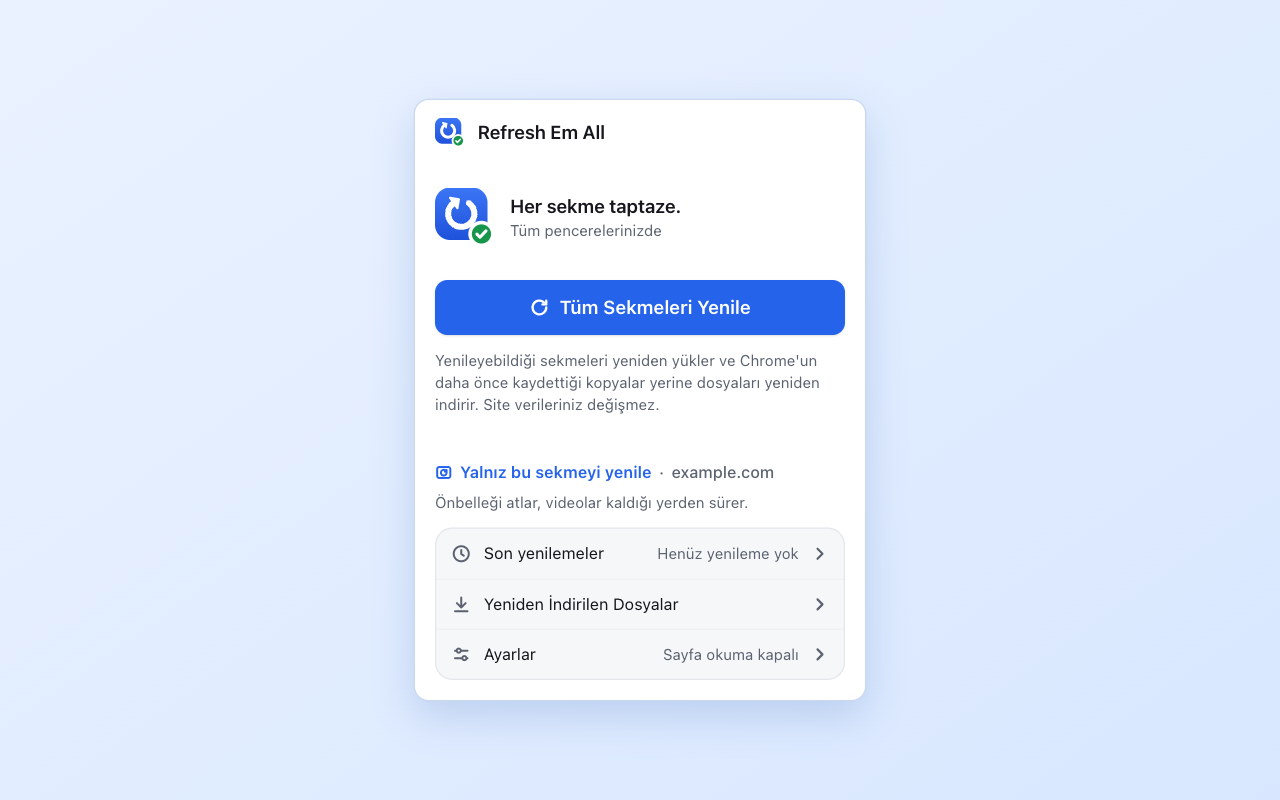
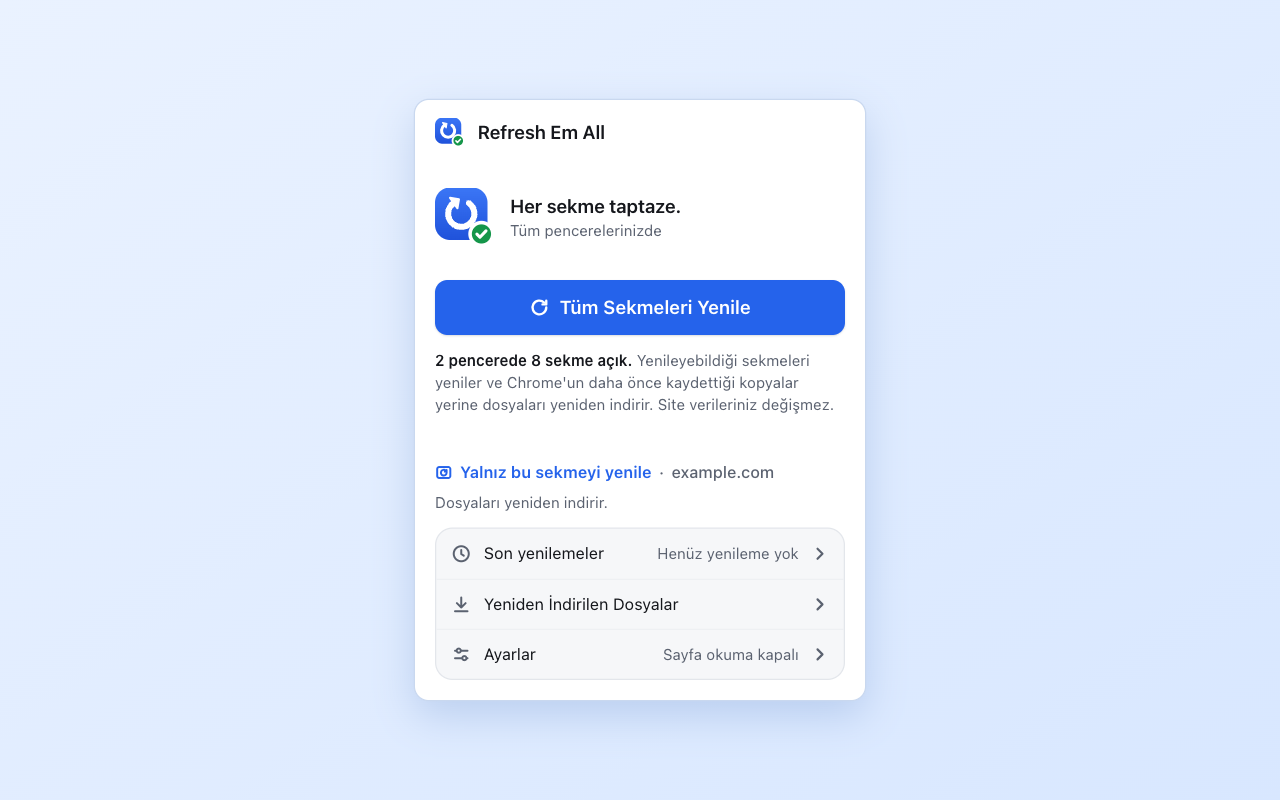
chore(release): prepare 2.7.0
Store name and summary lead with "Reload all tabs"; the description covers the new ready-screen count, the offline wait, sleeping tabs going back to sleep, the typed-text skip and the retry offer, and the history entry's failed tab ids. All ten screenshots are recaptured from the verified 2.7.0 package.

Changed region(s): [[0.3438, 0.4375, 0.6562, 0.5312], [0.3438, 0.625, 0.5938, 0.6562]]

diff --git a/docs/chrome-web-store/listing.md b/docs/chrome-web-store/listing.md
@@ -1,22 +1,21 @@
 # Chrome Web Store Listing Proposal
 
 This document contains proposed submission text and a code-backed declaration
-audit for Refresh Em All v2.6.0. It does not authorize publication.
+audit for Refresh Em All v2.7.0. It does not authorize publication.
 
-v2.6.0 rebuilds the popup and adds one feature. The popup is a fixed frame
-whose slots change in place, so its window never resizes; History, Files and
-Settings open as views inside it. The progress bar follows the run smoothly,
-a clean run over every tab ends with a short confetti burst, and the first
-refresh asks in the popup before Chrome's permission dialog appears. "Refresh
-only this tab" reloads just the tab under the popup through the same path. The
-icon is redrawn as a blue tile with a transparent margin. Chrome closes the
-popup when the tab under it reloads, so that tab now reloads last and the
-toolbar badge shows the result for a few seconds. Measured byte totals are
-labeled approximate.
+v2.7.0 is named by the words people search for: "Refresh Em All: Reload All
+Tabs", with a summary that starts with "Reload all tabs". The popup header keeps
+the short name. The ready screen says how many tabs and windows a run covers,
+and both refresh buttons wait while the browser reports no network. Sleeping
+tabs go back to sleep once reloaded. With page reading allowed, a run over every
+tab leaves a tab with typed, unsent text alone. The ready screen offers to retry
+the last run's failed tabs. Runs above 50 tabs keep the pace of smaller ones.
+The popup's copy promises kept videos only while page reading is allowed, and
+names the warning Chrome shows before granting it. Incognito runs leave nothing
+in history or statistics.
 
-It changes no permission and no network behavior. It needs Chrome 117 or later
-(`minimum_chrome_version`). History entries gain a `singleTab` flag, and the
-popup no longer shows tab favicons.
+It changes no permission and no network behavior. History entries gain the
+failed tabs' Chrome ids after a run with failures.
 
 The permission model below is unchanged since v2.4.0, which made all-sites host
 access optional and requested it at runtime for media preservation and cache
@@ -53,9 +52,21 @@ where you left them. This includes playback position, play or pause, mute,
 volume, and playback rate. Restoration is best effort and depends on the page,
 its media player, and Chrome's autoplay rules. Sleeping tabs reload without
 coming to the foreground, but their unloaded media cannot be checked first.
+Once reloaded, they go back to sleep, so a large session does not stay in
+memory.
+
+With page reading allowed, Refresh Em All also asks each page whether a text
+box holds text you typed and have not sent. A run over every tab leaves that
+tab alone and says so, so a reload does not wipe your draft. The page answers
+only yes or no; the text is not read out, stored, or sent.
 
 "Refresh only this tab" reloads just the tab you are looking at, the same way.
 It is not offered on Chrome's own pages, which no extension can reload.
+
+Before you start, the popup says how many tabs and windows a reload covers.
+While your computer is offline, the buttons wait, so your tabs do not turn into
+error pages. When a reload could not reach some tabs, the popup offers to retry
+just those.
 
 The interface is available in English and Turkish, and follows your browser's
 language automatically.
@@ -102,8 +113,9 @@ ends, and Refresh Em All removes it when the operation finishes.
 
 Durable `refreshHistory` storage keeps at most ten counts-only summaries:
 timestamp, total tabs, successful tabs, failed count, skipped count, and the
-cancelled, interrupted and single-tab flags. It contains no URLs, titles, or
-favicons. Refresh Em All sends
+cancelled, interrupted and single-tab flags, and, after a run with failures,
+the Chrome ids of the failed tabs so the popup can offer to retry them. It
+contains no URLs, titles, or favicons. Refresh Em All sends
 no tab details, cache counters, history, telemetry, or error reports anywhere,
 and it uses no remote code.
 
@@ -153,10 +165,22 @@ bıraktığınız yerde tutmaya çalışır. Buna oynatma konumu, oynatma veya d
 sessize alma, ses düzeyi ve oynatma hızı dahildir. Bu geri yükleme için elinden
 geleni yapar; sonuç sayfaya, medya oynatıcısına ve Chrome'un otomatik oynatma
 kurallarına bağlıdır. Uyuyan sekmeler öne getirilmeden yeniden yüklenir, ancak
-henüz yüklenmemiş medyaları önceden denetlenemez.
+henüz yüklenmemiş medyaları önceden denetlenemez. Yenilendikten sonra yeniden
+uyurlar, böylece büyük bir oturum bellekte kalmaz.
+
+Sayfa okumaya izin verildiğinde Refresh Em All her sayfaya, bir yazı kutusunda
+yazıp henüz göndermediğiniz bir metin olup olmadığını da sorar. Tüm sekmeleri
+yenilerken o sekmeye dokunmaz ve bunu söyler; böylece yenileme taslağınızı
+silmez. Sayfa yalnızca evet ya da hayır der; metin okunmaz, saklanmaz ve
+gönderilmez.
 
 "Yalnız bu sekmeyi yenile", baktığınız sekmeyi aynı şekilde tek başına yeniden
 yükler. Hiçbir uzantının yenileyemediği Chrome sayfalarında sunulmaz.
+
+Başlamadan önce açılır pencere, yenilemenin kaç pencerede kaç sekmeyi
+kapsadığını söyler. Bilgisayarınız çevrimdışıyken düğmeler bekler, böylece
+sekmeleriniz hata sayfasına dönmez. Bazı sekmeler yenilenemezse açılır pencere
+yalnız onları yeniden denemeyi önerir.
 
 Arayüz İngilizce ve Türkçe olarak sunulur ve tarayıcınızın diline göre kendini
 ayarlar.
@@ -203,7 +227,8 @@ tarayıcı oturumu bitince siler, Refresh Em All ise işlem bitince kaldırır.
 
 Kalıcı `refreshHistory` depolaması en fazla on adet yalnızca sayı içeren özet
 tutar: zaman damgası, toplam sekme, başarılı sekme, başarısız sayısı, atlanan
-sayısı ile iptal, kesilme ve tek sekme bilgisi. URL, başlık veya favicon içermez. Refresh Em All sekme
+sayısı ile iptal, kesilme ve tek sekme bilgisi; başarısız sekmeler olduysa, yeniden
+denemeyi önerebilmek için o sekmelerin Chrome kimlikleri. URL, başlık veya favicon içermez. Refresh Em All sekme
 ayrıntılarını, önbellek sayaçlarını, geçmişi, telemetriyi veya hata raporlarını
 hiçbir yere göndermez ve uzak kod kullanmaz.
 
@@ -220,7 +245,7 @@ yerel HTTP önbelleğini atlayarak yeniden yüklemektir.
 
 ## Permission justifications and audit
 
-The v2.6.0 manifest keeps `tabs`, `scripting`, and `storage` required and keeps
+The v2.7.0 manifest keeps `tabs`, `scripting`, and `storage` required and keeps
 `<all_urls>` in `optional_host_permissions`, where it has been since v2.4.0.
 The popup requests that host access at runtime; refusing it does not prevent
 cache-bypassing tab reloads.
@@ -240,7 +265,7 @@ the optional host permission support the single cache-bypassing reload purpose.
 
 Chrome's guidance is to request relevant, least-privilege, and where possible
 optional permissions. The all-sites host permission has been optional and
-runtime-requested since v2.4.0; v2.6.0 changes no permission. `tabs` is retained
+runtime-requested since v2.4.0; v2.7.0 changes no permission. `tabs` is retained
 for the separate restricted-page classification and display-metadata behavior
 established by Candidate 1. The permission model is already minimal and has been
 stable since v2.4.0, so this release makes no reduction attempt of its own; the
@@ -502,7 +527,7 @@ dashboard fact that cannot be verified from this repository.
 
 ### Nomination step
 
-Featured nomination is manual. After the public v2.6.0 version is live and
+Featured nomination is manual. After the public v2.7.0 version is live and
 stable, submit it through **One Stop Support** in the Developer Dashboard. There
 is no API and no automatic nomination.
 
@@ -516,17 +541,17 @@ The listing assets and their reproducible sources live under
 `docs/chrome-web-store/assets/`. They are documentation-only Store inputs and
 are not included in the extension package.
 
-The icon record below is verified against the v2.6.0 submission package
+The icon record below is verified against the v2.7.0 submission package
 itself: asset validation reads `icons.128` out of that ZIP and audits the file
-it names. All ten screenshots were recaptured for v2.6.0 from the artifact
+it names. All ten screenshots were recaptured for v2.7.0 from the artifact
 recorded below, so their provenance matches the package being submitted. The
 submission artifact was rebuilt from this working tree and recorded as follows:
 
-- **ZIP filename:** `refresh-em-all-v2.6.0.zip`
-- **Byte size:** 188142 bytes
+- **ZIP filename:** `refresh-em-all-v2.7.0.zip`
+- **Byte size:** 199959 bytes
 - **SHA-256:**
[1 lines of base64/hex data omitted]
-- All ten 1280×800 screenshots were captured from the v2.6.0 package described
[1 lines of base64/hex data omitted]
+- All ten 1280×800 screenshots were captured from the v2.7.0 package described
   above, after the capture script verified its hash and reported version.
   - English: `assets/screenshots/*.png` (5 files)
   - Turkish: `assets/screenshots/tr/*.png` (5 files)
@@ -544,8 +569,8 @@ submission artifact was rebuilt from this working tree and recorded as follows:
 - The capture pins `prefers-color-scheme: light`, because the capture frames
   the popup on a white card.
 - The required 440×280 promotional PNG is rendered from a self-contained SVG
-  source with repository-local tooling and no external fonts or images. v2.6.0
-  redraws it around the new icon.
+  source with repository-local tooling and no external fonts or images. It was
+  redrawn around the blue tile icon in v2.6.0 and is unchanged in v2.7.0.
 - The packaged 128×128 icon is `assets/icon-128.png`, the blue tile drawn from
   `assets/icon.svg`. The audit records a valid 128×128 PNG with 96×96 px
   artwork inside a transparent 16 px margin, as the Store asks.
@@ -560,19 +585,19 @@ them. Dashboard-only items live in
 [`dashboard-checklist.md`](dashboard-checklist.md) and are **not** ticked here.
 
 - [x] Generate five 1280×800 English PNG screenshots from the actual verified
-      v2.6.0 package, showing the popup before, during, and after a refresh plus
+      v2.7.0 package, showing the popup before, during, and after a refresh plus
       local history and privacy settings. Human visual approval is still
       required.
 - [x] Generate the matching five Turkish 1280×800 screenshots from the same
-      verified v2.6.0 package with a Turkish browser UI locale. Human visual
+      verified v2.7.0 package with a Turkish browser UI locale. Human visual
       approval is still required.
 - [x] Generate the required 440×280 PNG promotional image from its repository
       SVG source. Human visual approval is still required.
-- [x] Validate the 128×128 icon in the actual v2.6.0 package against current
+- [x] Validate the 128×128 icon in the actual v2.7.0 package against current
       Store guidance: 96×96 px artwork inside a transparent 16 px margin.
       The audit is written to `test-results/chrome-web-store/icon-audit.json`;
       human visual approval is still required.
-- [ ] Confirm the actual v2.6.0 package contains both locale catalogs and
+- [ ] Confirm the actual v2.7.0 package contains both locale catalogs and
       nothing undeclared. The packaging allowlist fails closed on an undeclared
       locale, a stray file inside `_locales/`, or a missing default-locale
       catalog.
@@ -591,7 +616,7 @@ them. Dashboard-only items live in
       finishes reloading, the interface is localized with Chrome's built-in
       `chrome.i18n` using packaged static catalogs, and no remote code or
       external reporting endpoint exists.
-- [ ] The v2.6.0 package has been built and verified (filename, byte size, and
+- [ ] The v2.7.0 package has been built and verified (filename, byte size, and
       SHA-256 recorded above under Visual assets). Before upload, confirm the
       SHA-256 of the exact file being uploaded matches that recorded hash.
 - [ ] Work through [`dashboard-checklist.md`](dashboard-checklist.md) in full.

diff --git a/docs/chrome-web-store/dashboard-checklist.md b/docs/chrome-web-store/dashboard-checklist.md
@@ -1,4 +1,4 @@
-# Manual Developer Dashboard checklist: Refresh Em All v2.6.0
+# Manual Developer Dashboard checklist: Refresh Em All v2.7.0
 
 Everything in this file lives in the Chrome Web Store Developer Dashboard or in Google's
 publisher records. **None of it can be verified from this repository**, so nothing here is
@@ -72,7 +72,7 @@ permissions, privacy behaviour) is covered in [`listing.md`](listing.md).
 - [ ] The uploaded ZIP is the exact artifact recorded in `listing.md`: confirm the filename,
       byte size, and SHA-256 before uploading. Do not upload a rebuilt or re-zipped copy
       without re-recording its hash.
-- [ ] After upload, the dashboard shows version **2.6.0**.
+- [ ] After upload, the dashboard shows version **2.7.0**.
 - [ ] The **Store icon** on the listing page is the blue tile with the refresh arrow and green check. That field is not
       uploaded separately; it is read from `manifest.json` `icons` inside the package, so a
       stale icon there means the wrong ZIP was uploaded.
@@ -80,7 +80,7 @@ permissions, privacy behaviour) is covered in [`listing.md`](listing.md).
 
 ## 8. After the public version is live
 
-- [ ] The v2.6.0 update has finished review and is actually serving to users.
+- [ ] The v2.7.0 update has finished review and is actually serving to users.
 - [ ] Give the public version time to stabilise (no crash reports, no policy warnings, no
       spike in uninstalls) **before** nominating it for Featured.
 - [ ] Submit the Featured nomination manually through **One Stop Support** in the Developer
